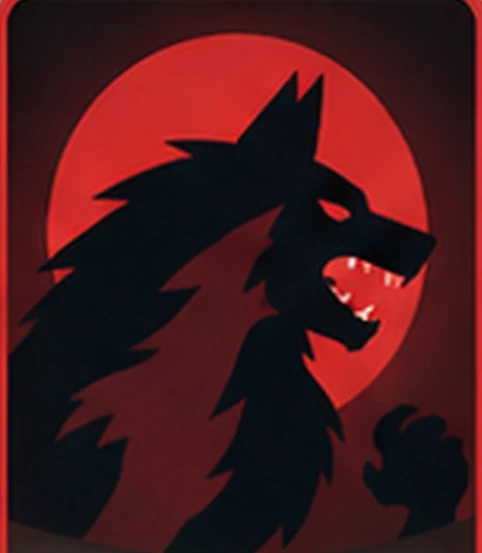
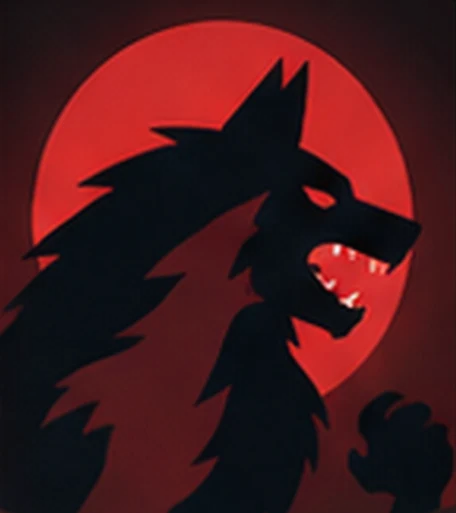
Rollenbilder: Rand sauber abgeschnitten, Bildformat 8:9 statt quadratisch

diff --git a/assets/css/app.css b/assets/css/app.css
@@ -264,7 +264,7 @@ textarea.inp{padding:12px 14px;min-height:96px;resize:vertical}
 .rd p{color:var(--muted);margin-top:6px}
 .ov-grid{display:grid;grid-template-columns:repeat(auto-fill,minmax(150px,1fr));gap:10px}
 .ov{display:flex;flex-direction:column;gap:6px;text-align:left}
-.ov .rbg{width:100%;aspect-ratio:1;border-radius:14px}
+.ov .rbg{width:100%;aspect-ratio:8/9;border-radius:14px}
 .ov b{font-size:14px}.ov small{font-size:12px;color:var(--muted);line-height:1.2}
 #toast{position:fixed;left:50%;bottom:calc(90px + var(--safe-b));transform:translate(-50%,20px);z-index:60;opacity:0;max-width:min(90vw,520px);padding:12px 18px;border-radius:14px;background:var(--surface2);border:1px solid var(--accent);box-shadow:var(--shadow);font-weight:700;text-align:center;transition:opacity .2s,transform .2s;pointer-events:none}
 #toast.show{opacity:1;transform:translate(-50%,0)}
@@ -274,7 +274,7 @@ textarea.inp{padding:12px 14px;min-height:96px;resize:vertical}
 .dealcard{width:min(86vw,380px);aspect-ratio:3/4.4;max-height:calc(var(--vh)*.7);border-radius:26px;border:3px solid var(--line);box-shadow:var(--shadow);display:flex;flex-direction:column;align-items:center;justify-content:center;gap:12px;padding:20px;text-align:center;position:relative;overflow:hidden;animation:rise .3s ease}
 .dealcard.back{background:repeating-linear-gradient(45deg,rgba(255,255,255,.05) 0 8px,transparent 8px 18px),linear-gradient(160deg,var(--raise),var(--surface))}
 .dealcard.face{background:linear-gradient(180deg,rgba(0,0,0,.2),rgba(0,0,0,.7)),var(--rc)}
-.dealcard .rbg{width:min(46vw,190px);aspect-ratio:1;border-radius:20px;border:3px solid rgba(255,255,255,.6)}
+.dealcard .rbg{width:min(46vw,190px);aspect-ratio:8/9;border-radius:20px;border:3px solid rgba(255,255,255,.6)}
 .dealcard h2{font-family:var(--serif);font-size:34px;color:#fff;text-shadow:0 2px 8px rgba(0,0,0,.6)}
 .dealcard p{color:#fff;opacity:.9;font-size:14px;max-width:28ch}
 .dealcard .who{font-weight:800;letter-spacing:.08em;text-transform:uppercase;font-size:14px;color:#fff;opacity:.9}

diff --git a/sw.js b/sw.js
@@ -2,7 +2,7 @@
 // Der Block zwischen den Marken wird von tools/precache.mjs erzeugt (node tools/precache.mjs).
 
 // >>> precache
-const VERSION = '907ab10b24';
+const VERSION = '1a543c8f5f';
 const ASSETS = [
   './',
   './assets/audio/glocke.mp3',
